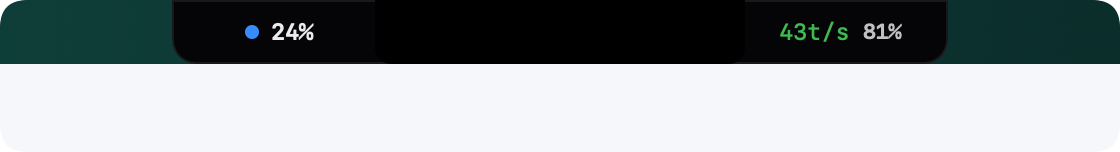
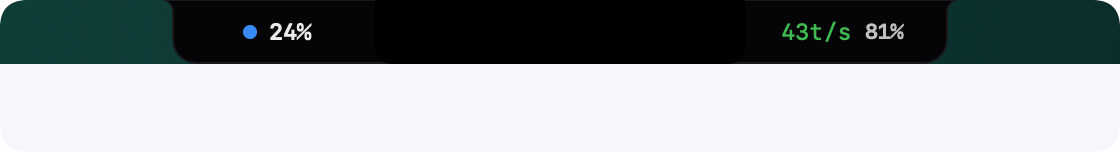
style: add subtle 6pt concave top-edge flare corners for notch

Changed region(s): [[0.6875, 0.1316, 0.8125, 0.2632], [0.2188, 0.1316, 0.2812, 0.2632], [0.125, 0.0, 0.1562, 0.0263]]

diff --git a/Sources/IslandView.swift b/Sources/IslandView.swift
@@ -17,8 +17,12 @@ struct IslandView: View {
     var onRefresh: () -> Void
     var onQuit: () -> Void
 
+    private var notchFlareRadius: CGFloat {
+        state.hasNotch ? 6 : 0
+    }
+
     private var unifiedNotchWidth: CGFloat {
-        max(388, state.notchWidth + 200)
+        max(400, state.notchWidth + 212)
     }
 
     private var compactWidth: CGFloat {
@@ -63,21 +67,24 @@ struct IslandView: View {
             .background(
                 IslandBackgroundShape(
                     topCornerRadius: state.hasNotch ? 0 : 14,
-                    bottomCornerRadius: state.isExpanded ? 20 : (state.hasNotch ? 12 : 14)
+                    bottomCornerRadius: state.isExpanded ? 20 : (state.hasNotch ? 12 : 14),
+                    topFlareRadius: notchFlareRadius
                 )
                 .fill(Color(red: 0.02, green: 0.02, blue: 0.03))
             )
             .overlay(
                 IslandBackgroundShape(
                     topCornerRadius: state.hasNotch ? 0 : 14,
-                    bottomCornerRadius: state.isExpanded ? 20 : (state.hasNotch ? 12 : 14)
+                    bottomCornerRadius: state.isExpanded ? 20 : (state.hasNotch ? 12 : 14),
+                    topFlareRadius: notchFlareRadius
                 )
                 .strokeBorder(Color.white.opacity(state.isExpanded ? 0.14 : 0.08), lineWidth: 1)
             )
             .clipShape(
                 IslandBackgroundShape(
                     topCornerRadius: state.hasNotch ? 0 : 14,
-                    bottomCornerRadius: state.isExpanded ? 20 : (state.hasNotch ? 12 : 14)
+                    bottomCornerRadius: state.isExpanded ? 20 : (state.hasNotch ? 12 : 14),
+                    topFlareRadius: notchFlareRadius
                 )
             )
             .animation(.spring(response: 0.28, dampingFraction: 0.92), value: state.isExpanded)
@@ -99,7 +106,7 @@ struct IslandView: View {
                         .foregroundColor(contextColor)
                 }
                 .frame(maxWidth: .infinity, maxHeight: compactHeight)
-                .padding(.leading, 6)
+                .padding(.leading, 10)
 
                 // Hardware notch spacer
                 Spacer()
@@ -117,7 +124,7 @@ struct IslandView: View {
                     }
                 }
                 .frame(maxWidth: .infinity, maxHeight: compactHeight)
-                .padding(.trailing, 6)
+                .padding(.trailing, 10)
             }
         } else {
             HStack(spacing: 8) {
@@ -199,7 +206,7 @@ struct IslandView: View {
                     quotaSection
                 }
             }
-            .padding(.horizontal, 14)
+            .padding(.horizontal, 14 + notchFlareRadius)
             .padding(.bottom, 14)
         }
     }
@@ -500,6 +507,7 @@ struct IslandView: View {
 struct IslandBackgroundShape: InsettableShape {
     var topCornerRadius: CGFloat
     var bottomCornerRadius: CGFloat
+    var topFlareRadius: CGFloat = 0
     var insetAmount: CGFloat = 0
 
     var animatableData: AnimatablePair<CGFloat, CGFloat> {
@@ -517,6 +525,62 @@ struct IslandBackgroundShape: InsettableShape {
     }
 
     func path(in rect: CGRect) -> Path {
+        let flare = max(0, topFlareRadius)
+        if flare > 0 {
+            // Notch-style shape with small outward-flared concave top corners
+            let r = CGRect(
+                x: rect.minX + insetAmount,
+                y: rect.minY,
+                width: max(0, rect.width - insetAmount * 2),
+                height: max(0, rect.height - insetAmount)
+            )
+            let fr = min(flare, r.width * 0.15, r.height * 0.45)
+            let br = max(0, min(bottomCornerRadius - insetAmount, (r.width - fr * 2) * 0.45, (r.height - fr) * 0.8))
+
+            var p = Path()
+            p.move(to: CGPoint(x: r.minX, y: r.minY))
+            p.addLine(to: CGPoint(x: r.maxX, y: r.minY))
+            // Top-right concave flare
+            p.addArc(
+                center: CGPoint(x: r.maxX, y: r.minY + fr),
+                radius: fr,
+                startAngle: .degrees(-90),
+                endAngle: .degrees(180),
+                clockwise: true
+            )
+            p.addLine(to: CGPoint(x: r.maxX - fr, y: r.maxY - br))
+            if br > 0 {
+                p.addArc(
+                    center: CGPoint(x: r.maxX - fr - br, y: r.maxY - br),
+                    radius: br,
+                    startAngle: .degrees(0),
+                    endAngle: .degrees(90),
+                    clockwise: false
+                )
+            }
+            p.addLine(to: CGPoint(x: r.minX + fr + br, y: r.maxY))
+            if br > 0 {
+                p.addArc(
+                    center: CGPoint(x: r.minX + fr + br, y: r.maxY - br),
+                    radius: br,
+                    startAngle: .degrees(90),
+                    endAngle: .degrees(180),
+                    clockwise: false
+                )
+            }
+            p.addLine(to: CGPoint(x: r.minX + fr, y: r.minY + fr))
+            // Top-left concave flare
+            p.addArc(
+                center: CGPoint(x: r.minX, y: r.minY + fr),
+                radius: fr,
+                startAngle: .degrees(0),
+                endAngle: .degrees(-90),
+                clockwise: true
+            )
+            p.closeSubpath()
+            return p
+        }
+
         let r = rect.insetBy(dx: insetAmount, dy: insetAmount)
         let tl = max(0, topCornerRadius - insetAmount)
         let tr = max(0, topCornerRadius - insetAmount)

diff --git a/Sources/AppMain.swift b/Sources/AppMain.swift
@@ -214,7 +214,7 @@ final class AppDelegate: NSObject, NSApplicationDelegate {
     private func applyPanelFrame(expanded: Bool) {
         guard let screen = targetScreen() else { return }
 
-        let unifiedNotchW = max(388, state.notchWidth + 200)
+        let unifiedNotchW = max(400, state.notchWidth + 212)
         let compactW: CGFloat = state.hasNotch ? unifiedNotchW : 228
         let compactH: CGFloat = state.hasNotch ? state.notchHeight : 28
 
